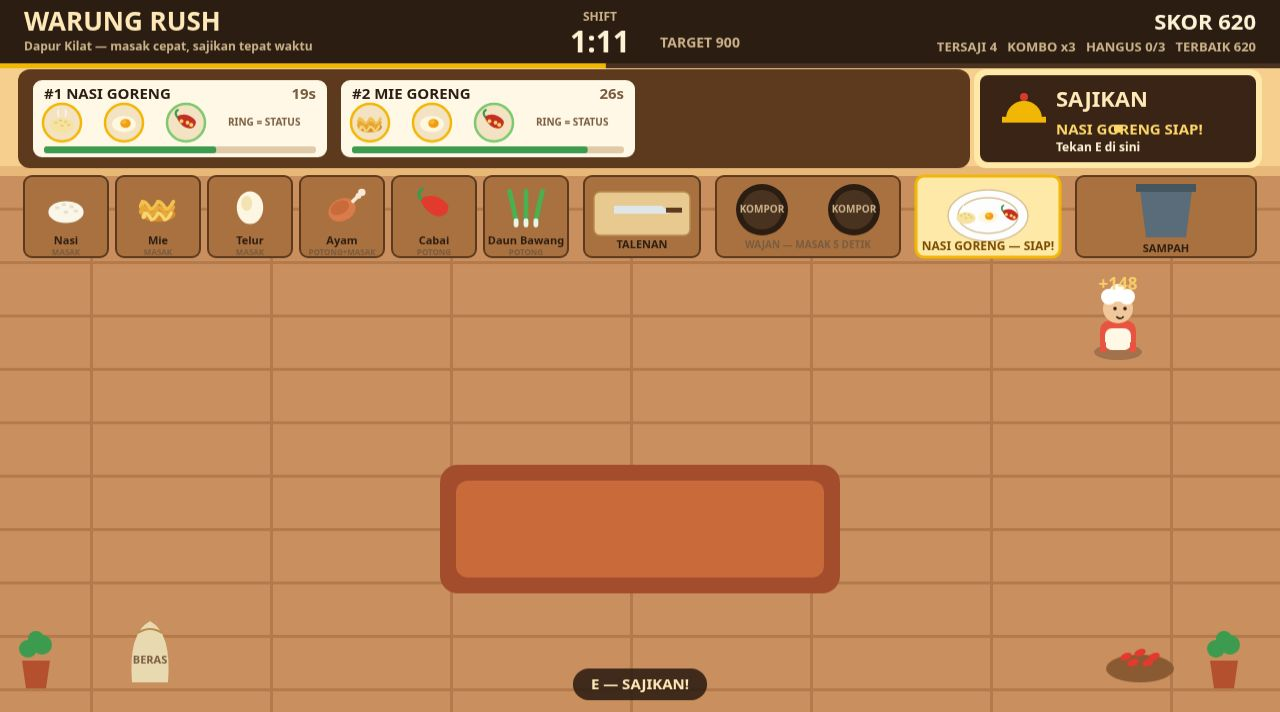
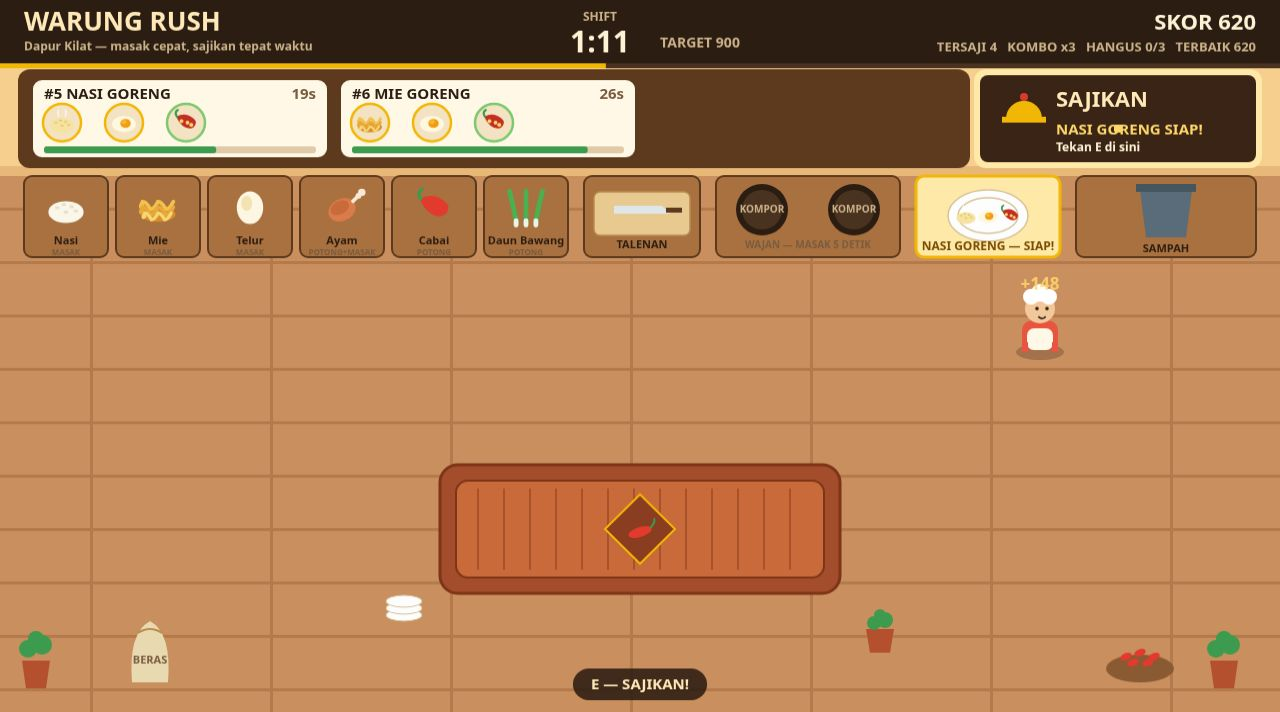
Warung Rush: review fixes — ticket labels, rug, trash safety
- Remove invisible PESANAN header (was painted over by the HUD bar)
  and the RING = STATUS debug text from order tickets
- Stage ticket numbers continuous with served count (#3-5 at 2 served,
  #5-6 at 4 served, #8 at 7 served)
- Finish the floor rug: stitched border, woven stripes, chili medallion,
  plus a bowl stack and herb pot beside it
- Trash now discards only what the chef holds; plate and chopping
  board are never wiped. Serve front moved to x=1040 and trash front
  to x=1240 (200px apart) so a serve can never land on trash

diff --git a/game/src/render.js b/game/src/render.js
@@ -101,13 +101,86 @@ export function createRenderer(canvas) {
     for (let x = 90; x < FIELD.width; x += 180) {
       ctx.fillRect(x, 178, 3, FIELD.height - 178);
     }
-    // Rug in the middle of the floor.
+    // Rug in the middle of the floor: woven mat with a stitched border,
+    // woven stripes and a chili medallion at its centre.
     ctx.fillStyle = '#a34d2d';
     roundRect(ctx, 440, 470, 400, 130, 18);
     ctx.fill();
+    ctx.strokeStyle = '#7e3517';
+    ctx.lineWidth = 3;
+    roundRect(ctx, 440, 470, 400, 130, 18);
+    ctx.stroke();
     ctx.fillStyle = '#c96a3a';
     roundRect(ctx, 456, 486, 368, 98, 12);
     ctx.fill();
+    // Woven stripes.
+    ctx.strokeStyle = 'rgba(126,53,23,0.45)';
+    ctx.lineWidth = 2;
+    for (let sx = 478; sx <= 802; sx += 26) {
+      ctx.beginPath();
+      ctx.moveTo(sx, 494);
+      ctx.lineTo(sx, 576);
+      ctx.stroke();
+    }
+    ctx.strokeStyle = '#7e3517';
+    ctx.lineWidth = 2;
+    roundRect(ctx, 456, 486, 368, 98, 12);
+    ctx.stroke();
+    // Centre medallion: gold diamond with a little red chili.
+    ctx.fillStyle = '#8a3d20';
+    ctx.beginPath();
+    ctx.moveTo(640, 500);
+    ctx.lineTo(675, 535);
+    ctx.lineTo(640, 570);
+    ctx.lineTo(605, 535);
+    ctx.closePath();
+    ctx.fill();
+    ctx.strokeStyle = '#f2b705';
+    ctx.lineWidth = 2;
+    ctx.beginPath();
+    ctx.moveTo(640, 500);
+    ctx.lineTo(675, 535);
+    ctx.lineTo(640, 570);
+    ctx.lineTo(605, 535);
+    ctx.closePath();
+    ctx.stroke();
+    ctx.fillStyle = '#e23b2e';
+    ctx.beginPath();
+    ctx.ellipse(640, 538, 12, 5, -0.3, 0, Math.PI * 2);
+    ctx.fill();
+    ctx.strokeStyle = '#3d9b4f';
+    ctx.lineWidth = 2;
+    ctx.beginPath();
+    ctx.moveTo(650, 534);
+    ctx.quadraticCurveTo(656, 528, 654, 524);
+    ctx.stroke();
+    // Small floor props beside the rug: a stack of bowls (left) and a
+    // clay pot with herbs (right).
+    ctx.fillStyle = '#fdfdfd';
+    for (let i = 0; i < 3; i += 1) {
+      ctx.beginPath();
+      ctx.ellipse(404, 622 - i * 7, 18, 6, 0, 0, Math.PI * 2);
+      ctx.fill();
+      ctx.strokeStyle = '#d8c49a';
+      ctx.lineWidth = 1;
+      ctx.beginPath();
+      ctx.ellipse(404, 622 - i * 7, 18, 6, 0, 0, Math.PI * 2);
+      ctx.stroke();
+    }
+    ctx.fillStyle = '#b5502e';
+    ctx.beginPath();
+    ctx.moveTo(866, 636);
+    ctx.lineTo(894, 636);
+    ctx.lineTo(890, 660);
+    ctx.lineTo(870, 660);
+    ctx.closePath();
+    ctx.fill();
+    ctx.fillStyle = '#3d9b4f';
+    for (const [ox, oy, r] of [[-6, -6, 7], [5, -9, 8], [0, -14, 6]]) {
+      ctx.beginPath();
+      ctx.arc(880 + ox, 636 + oy, r, 0, Math.PI * 2);
+      ctx.fill();
+    }
     // Rice sack and chili basket on the floor, for a lived-in warung.
     ctx.fillStyle = '#e8d9b0';
     ctx.beginPath();
@@ -182,7 +255,8 @@ export function createRenderer(canvas) {
       ctx.arc(ix, iy, 19, 0, Math.PI * 2);
       ctx.stroke();
     });
-    text(ctx, 'RING = STATUS', x + 196, y + 44, 10, PALETTE.muted);
+    // (The coloured rings around the ingredient icons already show
+    // each component's state — no legend text needed on the ticket.)
     // Patience bar.
     const frac = Math.max(0, order.left / order.max);
     ctx.fillStyle = '#e0cba8';
@@ -197,7 +271,8 @@ export function createRenderer(canvas) {
     ctx.fillStyle = PALETTE.woodDark;
     roundRect(ctx, BOARD.x - 6, BOARD.y - 6, BOARD.w + 12, BOARD.h + 12, 12);
     ctx.fill();
-    text(ctx, 'PESANAN', BOARD.x + 4, BOARD.y - 16, 13, '#ffe9b8');
+    // (No header text here: the board sits directly under the HUD bar,
+    // so a label above it would be painted over and never seen.)
     if (state.orders.length === 0) {
       text(ctx, 'Belum ada pesanan — siapkan dapurmu!', BOARD.x + 20, BOARD.y + 44, 17, '#ffe9b8');
     }

diff --git a/game/src/engine.js b/game/src/engine.js
@@ -149,7 +149,11 @@ function allStations() {
   return [
     ...PANTRY.map((crate) => ({ ...crate })),
     ...Object.values(STATIONS),
-    { kind: 'serve', ...SERVE, front: { x: 1118, y: FLOOR_TOP + 26 } },
+    // Serve front moved left of the window's centre (was 1118) and the
+    // trash front moved to the far right end of its counter (was 1166):
+    // the two interaction points are now 200 px apart, so standing at
+    // one can never put the other within nearest-station reach.
+    { kind: 'serve', ...SERVE, front: { x: 1040, y: FLOOR_TOP + 26 } },
   ];
 }
 
@@ -269,11 +273,12 @@ export function interact(state, forced) {
   }
 
   if (station.kind === 'trash') {
-    if (state.hands.length === 0 && state.plate.length === 0 && !state.chop) return 'deny';
+    // Trash takes ONLY what the chef holds in hand. The plate and the
+    // chopping board are never touched — a finished plate on the counter
+    // cannot be wiped out by one wrong step, and a half-chopped item
+    // stays on the board. A burnt item in hand is what gets trashed.
+    if (state.hands.length === 0) return 'deny';
     state.hands = [];
-    state.plate = [];
-    state.plateDish = null;
-    state.chop = null;
     return 'trash';
   }
 
@@ -331,7 +336,7 @@ export function promptFor(state) {
   if (station.kind === 'plate') {
     return state.hands.length > 0 ? 'E — Tata di piring' : 'Bawa bahan matang ke sini';
   }
-  if (station.kind === 'trash') return 'E — Buang tangan & piring';
+  if (station.kind === 'trash') return 'E — Buang yang di tangan';
   if (station.kind === 'serve') {
     return state.plateDish ? 'E — SAJIKAN! 🛎' : 'Selesaikan piring dulu, lalu sajikan di sini';
   }

diff --git a/game/src/shots.js b/game/src/shots.js
@@ -11,8 +11,11 @@ import { SCREEN_OVER, SCREEN_PLAY, SCREEN_TITLE } from './render.js';
 function ticket(state, dishId, left) {
   const dish = DISHES.find((d) => d.id === dishId);
   state.orderSeq += 1;
+  // Ticket numbers stay continuous with what was already served: in a
+  // staged scene the board shows the next tickets after `served` dishes,
+  // so the first visible ticket is #served+1, not #1 again.
   return {
-    id: state.orderSeq,
+    id: state.served + state.orderSeq,
     dishId: dish.id,
     name: dish.name,
     short: dish.short,
@@ -74,9 +77,9 @@ export function stageShot(name, state) {
     ];
     state.nextOrderIn = 9;
     // Chef at the serve window with a finished Nasi Goreng on the plate.
-    state.chef.x = 1118;
+    state.chef.x = 1040;
     state.chef.y = 330;
-    state.chef.tx = 1118;
+    state.chef.tx = 1040;
     state.chef.ty = 330;
     state.plate = [
       { ing: 'rice', state: 'cooked' },
@@ -85,7 +88,7 @@ export function stageShot(name, state) {
     ];
     state.plateDish = dishForPlate(state.plate);
     state.floaters = [
-      { x: 1118, y: 288, text: '+148', t: 0.2, ttl: 1.4, colour: '#ffd76a' },
+      { x: 1040, y: 288, text: '+148', t: 0.2, ttl: 1.4, colour: '#ffd76a' },
     ];
     state.particles = [];
     for (let i = 0; i < 12; i += 1) {

diff --git a/game/src/config.js b/game/src/config.js
@@ -122,7 +122,7 @@ export const STATIONS = {
   chop: { kind: 'chop', label: 'Talenan', x: 584, y: 178, w: 116, h: 82, front: { x: 642, y: FLOOR_TOP + 26 } },
   wok: { kind: 'wok', label: 'Wajan', x: 716, y: 178, w: 184, h: 82, front: { x: 808, y: FLOOR_TOP + 26 } },
   plate: { kind: 'plate', label: 'Piring Saji', x: 916, y: 178, w: 144, h: 82, front: { x: 988, y: FLOOR_TOP + 26 } },
-  trash: { kind: 'trash', label: 'Tong Sampah', x: 1076, y: 178, w: 180, h: 82, front: { x: 1166, y: FLOOR_TOP + 26 } },
+  trash: { kind: 'trash', label: 'Tong Sampah', x: 1076, y: 178, w: 180, h: 82, front: { x: 1240, y: FLOOR_TOP + 26 } },
 };
 
 /** Order board (tickets) and serve window, on the wall band. */
